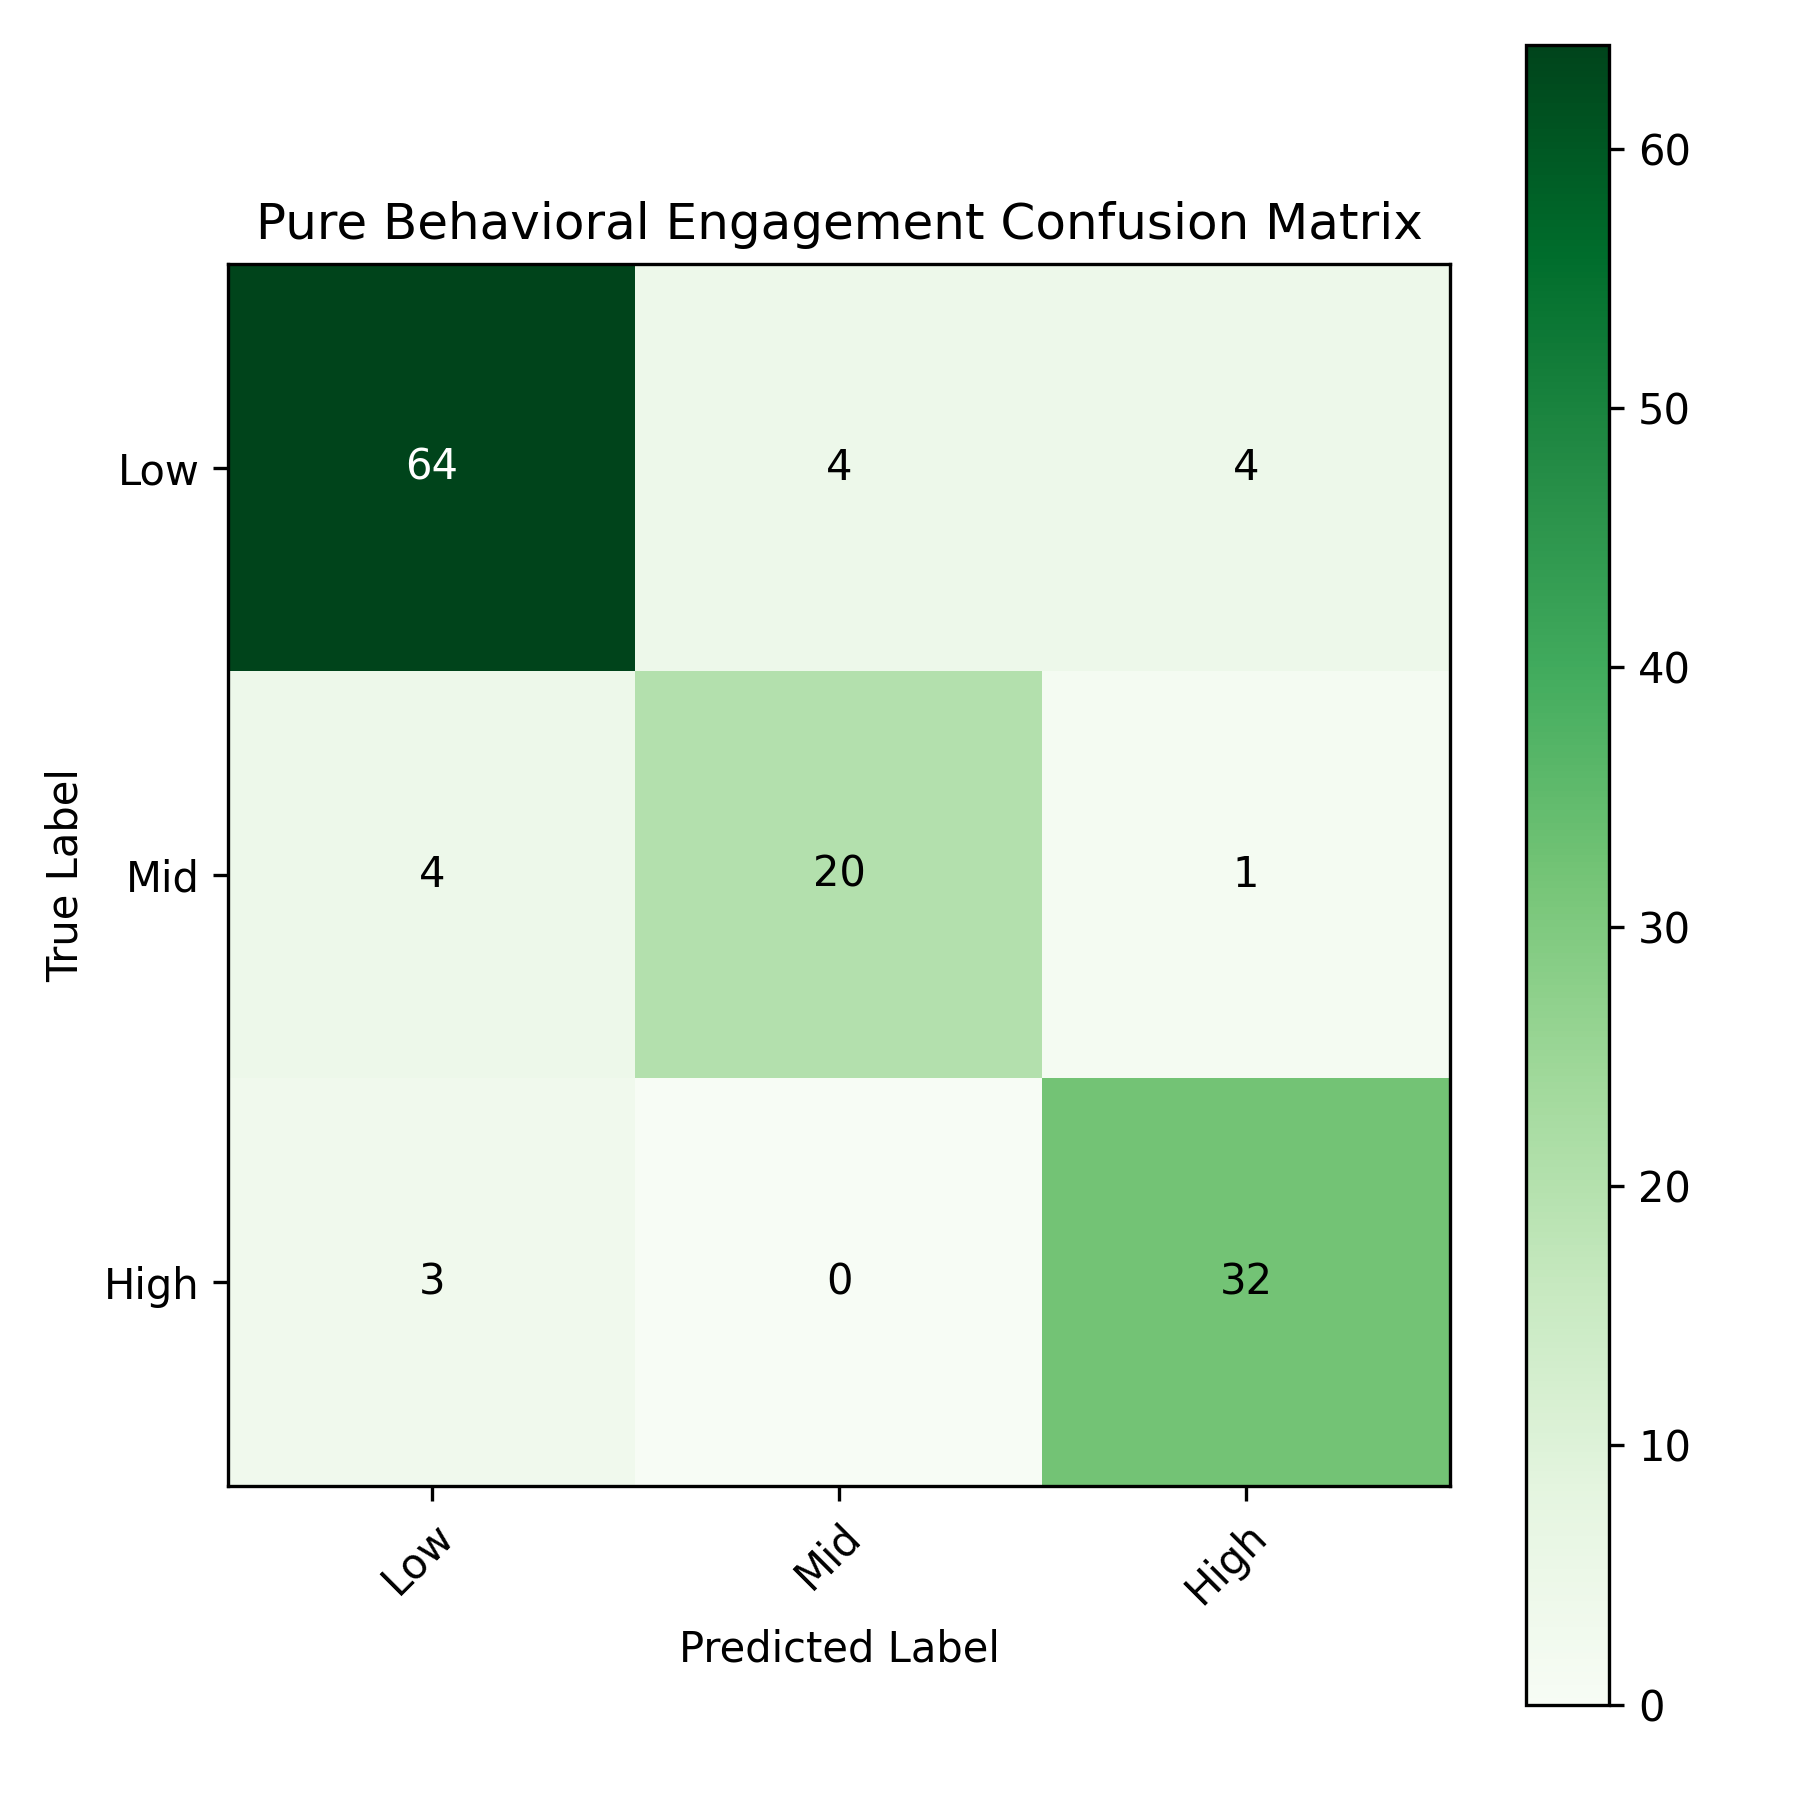
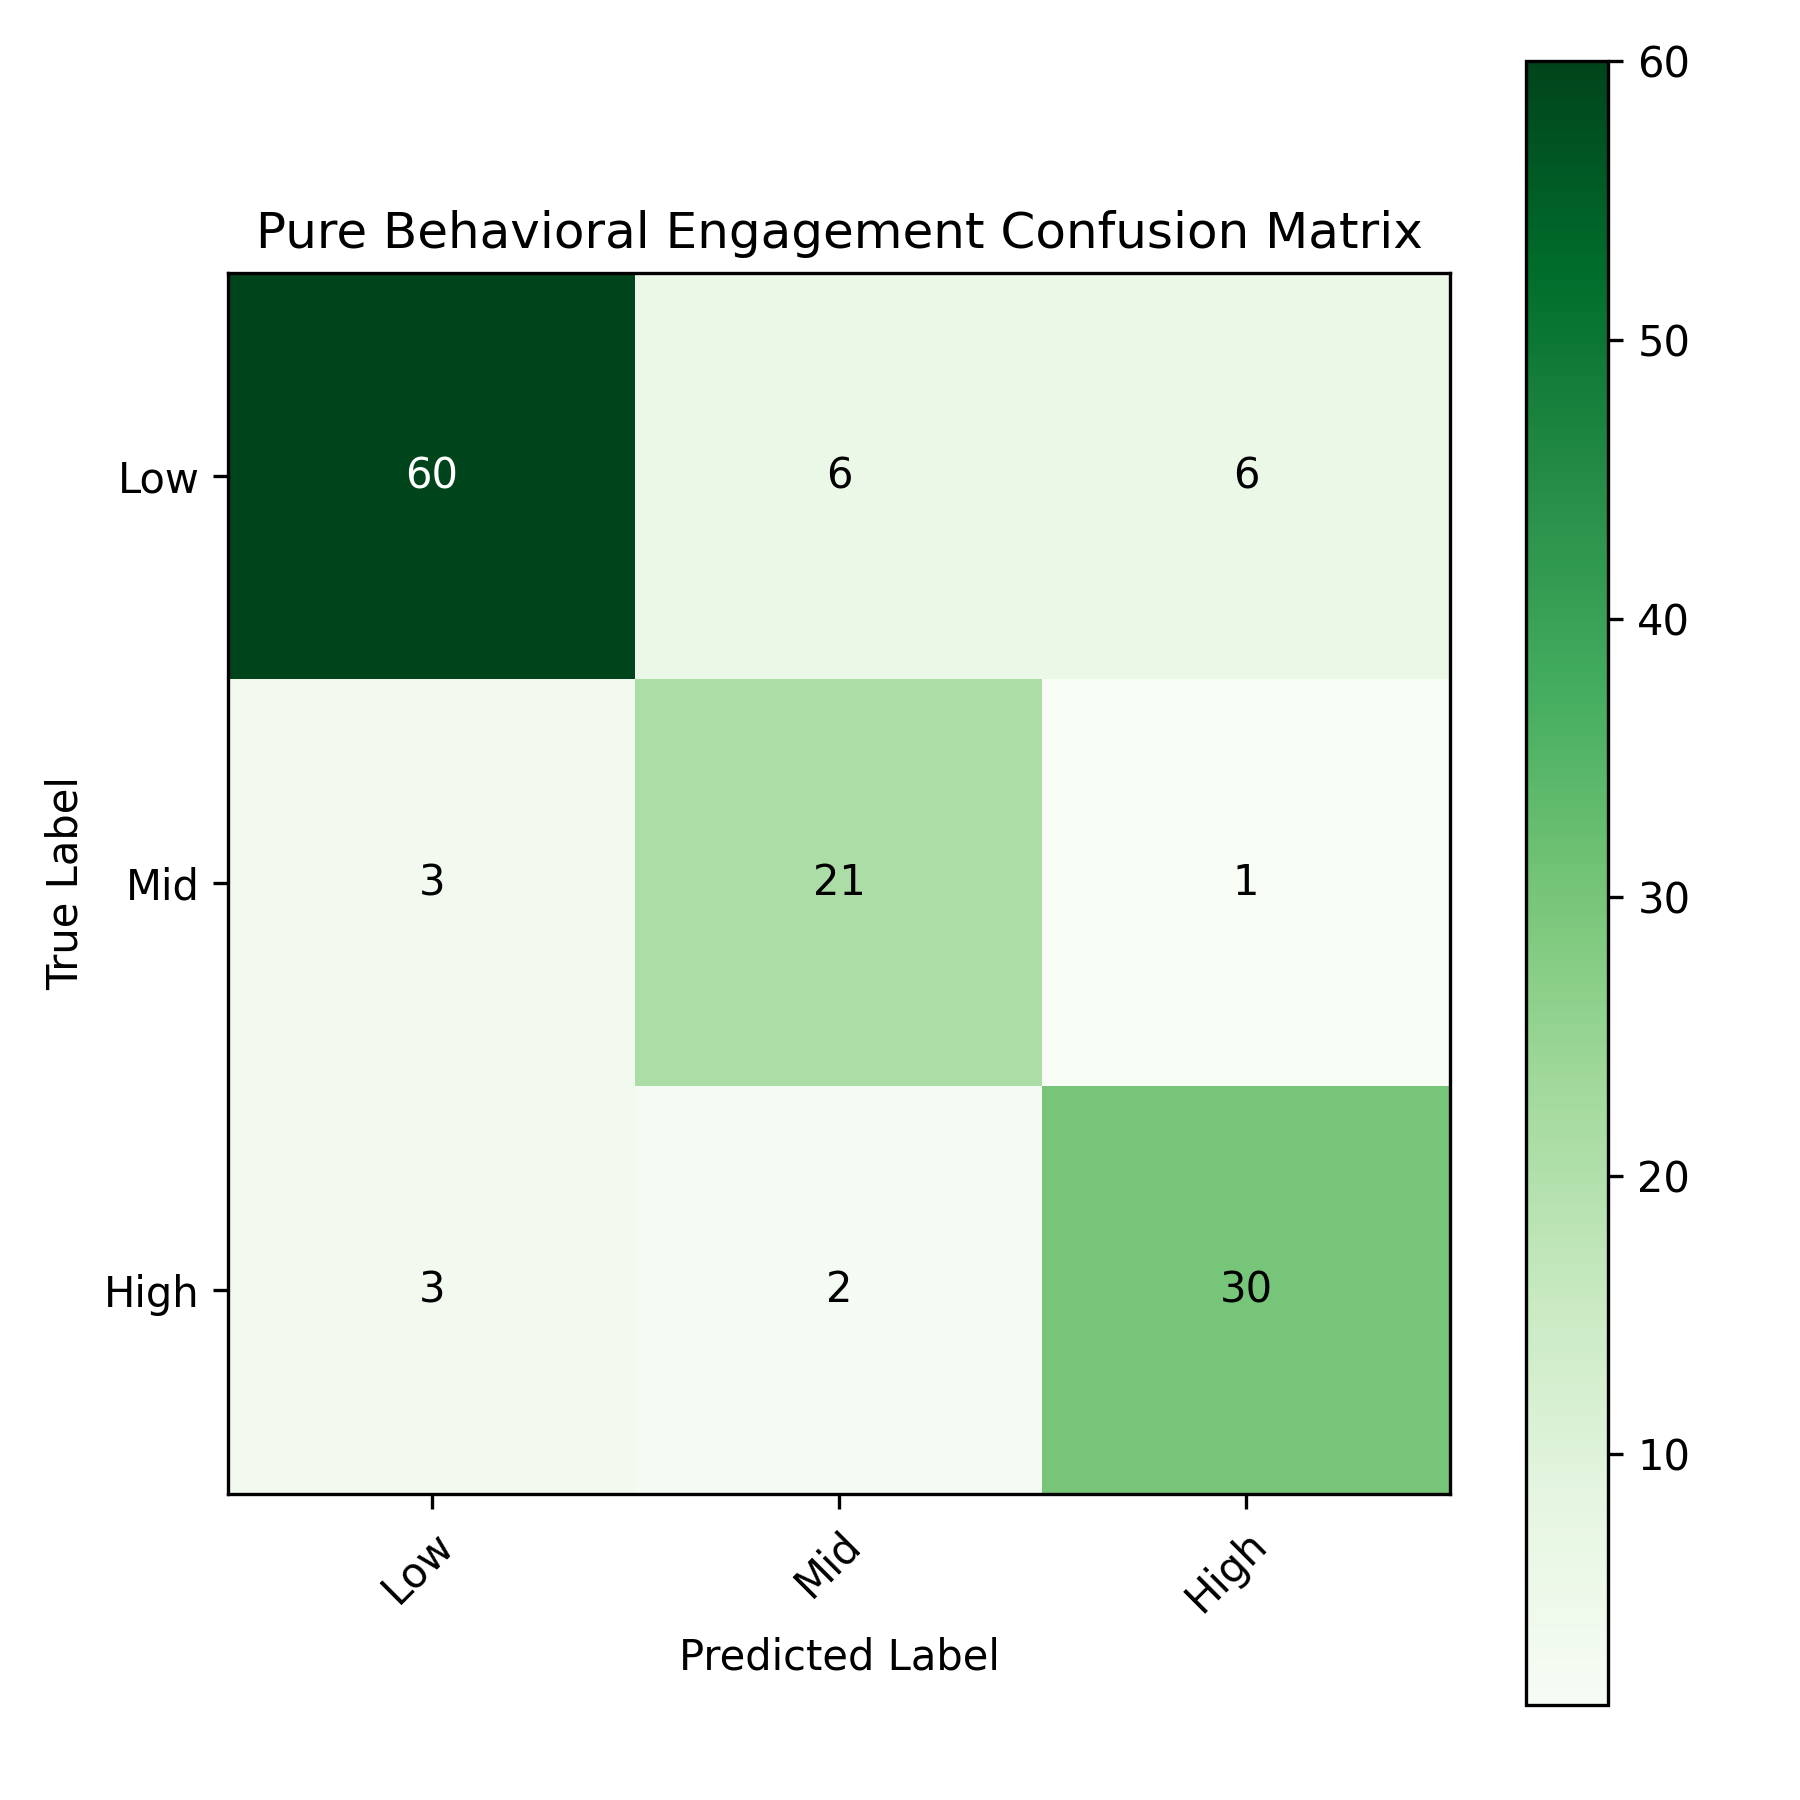
fix: verify legacy provenance and report reproducible metrics

diff --git a/extract_affect_features.py b/extract_affect_features.py
@@ -237,6 +237,17 @@ def manifest_matches_args(manifest: dict, args: argparse.Namespace) -> bool:
     )
 
 
+def reusable_affect_output(path: Path) -> bool:
+    """Return whether an existing affect array satisfies the full data contract."""
+    if not path.is_file():
+        return False
+    try:
+        matrix = np.load(path, allow_pickle=False)
+    except (OSError, ValueError):
+        return False
+    return matrix.shape == (8, 8) and np.isfinite(matrix).all()
+
+
 def main() -> None:
     parser = argparse.ArgumentParser(
         description="RetinaFace + ByteTrack + PyTorch FER affect extraction"
@@ -345,6 +356,44 @@ def main() -> None:
         # A failed full overwrite must not leave an old manifest claiming that
         # the now-partially-replaced directory is internally consistent.
         manifest_path.unlink(missing_ok=True)
+
+    if not args.overwrite:
+        reusable_count = 0
+        for split, category, source_path in tasks:
+            destination_path = (
+                args.output_dir / split / category / f"{source_path.stem}.npy"
+            )
+            details_path = (
+                args.track_details_dir / split / category / f"{source_path.stem}.json"
+            )
+            details_available = not args.save_track_details or details_path.is_file()
+            if reusable_affect_output(destination_path) and details_available:
+                reusable_count += 1
+        if reusable_count == len(tasks):
+            previous_summary = (existing_manifest or {}).get("summary", {})
+            summary = {
+                "input_videos": len(tasks),
+                "processed_videos": 0,
+                "skipped_existing_videos": len(tasks),
+                "failed_videos": 0,
+                "mean_frame_reliability": previous_summary.get(
+                    "mean_frame_reliability"
+                ),
+                "zero_reliability_fraction": previous_summary.get(
+                    "zero_reliability_fraction"
+                ),
+            }
+            print(json.dumps(summary, indent=2))
+            if args.max_videos is None:
+                print(f"Preserved existing affect provenance manifest: {manifest_path}")
+            else:
+                print(
+                    "Diagnostic subset run: preserved the full-dataset extraction "
+                    "manifest."
+                )
+            print(f"Reused verified track-aware affect features under {args.output_dir}")
+            return
+
     module = build_affect_module(args)
 
     processed = 0
@@ -360,8 +409,10 @@ def main() -> None:
         )
         details_missing = args.save_track_details and not details_path.exists()
         if destination_path.exists() and not args.overwrite and not details_missing:
-            skipped += 1
-            continue
+            if reusable_affect_output(destination_path):
+                skipped += 1
+                continue
+            print(f"Replacing incompatible existing affect feature: {destination_path}")
         try:
             matrix, frame_reliability, frame_details = extract_video(module, source_path)
             np.save(destination_path, matrix)
@@ -417,7 +468,10 @@ def main() -> None:
             "feature matrices were not silently fabricated."
         )
     if args.max_videos is None:
-        write_manifest(args, args.output_dir, summary)
+        if processed == 0 and skipped == len(tasks) and existing_manifest is not None:
+            print(f"Preserved existing affect provenance manifest: {manifest_path}")
+        else:
+            write_manifest(args, args.output_dir, summary)
     else:
         print("Diagnostic subset run: preserved the full-dataset extraction manifest.")
     print(f"Saved track-aware affect features under {args.output_dir}")

diff --git a/dataset.py b/dataset.py
@@ -2,6 +2,7 @@
 
 from __future__ import annotations
 
+from copy import deepcopy
 import json
 from pathlib import Path
 from typing import Sequence
@@ -9,6 +10,42 @@ from typing import Sequence
 import numpy as np
 import torch
 from torch.utils.data import Dataset
+
+from feature_schema import AFFECT_FEATURE_SCHEMA
+
+
+LEGACY_AFFECT_TRACKER_DEFAULTS = {
+    "new_track_threshold": 0.45,
+    "track_buffer": 8,
+}
+
+
+def normalize_feature_manifest_for_comparison(manifest: dict) -> dict:
+    """Fill only recorded legacy defaults before provenance comparison."""
+    normalized = deepcopy(manifest)
+    affect = normalized.get("affect_extraction")
+    if not isinstance(affect, dict):
+        return normalized
+    affect_schema = affect.get("feature_schema") or normalized.get("affect_schema")
+    tracker = affect.get("tracker")
+    if (
+        affect_schema == AFFECT_FEATURE_SCHEMA
+        and isinstance(tracker, dict)
+        and tracker.get("enabled") is True
+        and tracker.get("library") == "ultralytics-bytetrack"
+    ):
+        for key, value in LEGACY_AFFECT_TRACKER_DEFAULTS.items():
+            tracker.setdefault(key, value)
+    return normalized
+
+
+def feature_manifests_compatible(checkpoint_manifest: dict, data_manifest: dict) -> bool:
+    """Compare provenance while supporting the original track-aware manifest."""
+    if not isinstance(checkpoint_manifest, dict) or not isinstance(data_manifest, dict):
+        return False
+    return normalize_feature_manifest_for_comparison(
+        checkpoint_manifest
+    ) == normalize_feature_manifest_for_comparison(data_manifest)
 
 
 def load_feature_manifest(

diff --git a/evaluate_behavioral.py b/evaluate_behavioral.py
@@ -9,7 +9,11 @@ import matplotlib.pyplot as plt
 from sklearn.metrics import classification_report, confusion_matrix, f1_score
 from torch.utils.data import DataLoader
 from model_behavioral import PureBehavioralAttentionClassifier
-from dataset import EngagementDataset, load_feature_manifest
+from dataset import (
+    EngagementDataset,
+    feature_manifests_compatible,
+    load_feature_manifest,
+)
 from feature_schema import BEHAVIORAL_FEATURE_SCHEMA
 
 SCRIPT_DIR = os.path.dirname(os.path.abspath(__file__))
@@ -81,10 +85,16 @@ def evaluate(args):
         return
 
     checkpoint = torch.load(checkpoint_path, map_location=device, weights_only=False)
-    if checkpoint.get("feature_manifest") != feature_manifest:
+    checkpoint_manifest = checkpoint.get("feature_manifest")
+    if not feature_manifests_compatible(checkpoint_manifest, feature_manifest):
         raise ValueError(
             "Checkpoint feature provenance does not match the current behavioral "
             "matrices. Rebuild, retrain, and then evaluate."
+        )
+    if checkpoint_manifest != feature_manifest:
+        print(
+            "Accepted legacy affect provenance: omitted ByteTrack defaults were "
+            "verified as new_track_threshold=0.45 and track_buffer=8."
         )
     model.load_state_dict(checkpoint["model_state_dict"])
     model.eval()

diff --git a/evaluate.py b/evaluate.py
@@ -9,7 +9,11 @@ import matplotlib.pyplot as plt
 from sklearn.metrics import classification_report, confusion_matrix, f1_score
 from torch.utils.data import DataLoader
 from model import MultiBranchTemporalAttentionClassifier
-from dataset import EngagementDataset, load_feature_manifest
+from dataset import (
+    EngagementDataset,
+    feature_manifests_compatible,
+    load_feature_manifest,
+)
 from feature_schema import MULTI_BRANCH_FEATURE_SCHEMA
 
 SCRIPT_DIR = os.path.dirname(os.path.abspath(__file__))
@@ -90,10 +94,16 @@ def evaluate(args):
         return
 
     checkpoint = torch.load(checkpoint_path, map_location=device, weights_only=False)
-    if checkpoint.get("feature_manifest") != feature_manifest:
+    checkpoint_manifest = checkpoint.get("feature_manifest")
+    if not feature_manifests_compatible(checkpoint_manifest, feature_manifest):
         raise ValueError(
             "Checkpoint feature provenance does not match the current matrices. "
             "Rebuild, retrain, and then evaluate."
+        )
+    if checkpoint_manifest != feature_manifest:
+        print(
+            "Accepted legacy affect provenance: omitted ByteTrack defaults were "
+            "verified as new_track_threshold=0.45 and track_buffer=8."
         )
     model.load_state_dict(checkpoint["model_state_dict"])
     model.eval()

diff --git a/README.md b/README.md
@@ -57,20 +57,24 @@ This repository supports two execution modes:
 
 ---
 
-## 📊 Benchmark & Evaluation Results
+## 📊 Reproducible Evaluation Status
 
-Evaluated on the unseen test split (132 video clips):
+The checkpoint currently available locally for the pure-behavioral model was
+evaluated against all 132 files in `feature_matrices_behavioral/test`. The
+checkpoint is ignored by Git, so these numbers are not reproducible from a
+fresh clone until that checkpoint is supplied or the model is retrained.
 
-### 1. Classification Metrics Summary
+| Evaluation Setup | Test Accuracy | Macro-F1 | Status |
+| :--- | :---: | :---: | :--- |
+| **Pure Behavioral (Zero Scene)** | **84.09%** | **82.69%** | Reproduced on the current 132-sample test matrices |
+| **Majority Class Baseline** | 54.55% | 23.53% | Computed from the same test labels |
+| **Multi-Branch Balanced Fusion** | — | — | No matching 616-D checkpoint is currently available for verification |
 
-| Evaluation Setup | Modalities Used | Fused Dimensions | Test Accuracy | Macro-F1 Score |
-| :--- | :--- | :---: | :---: | :---: |
-| **Multi-Branch Balanced Fusion** | Scene (16) + Interaction (32) + Affect (32) | **80-dim** | **100.00%** | **100.00%** |
-| **Pure Behavioral (Zero Scene)** | Interaction (48) + Affect (48) | **96-dim** | **88.00%** | **86.68%** |
-| **Independent Random Forest Baseline** | Static Temporal Average (Pure Behavioral) | 40-dim | 82.58% | **79.32%** |
-| **Majority Class Baseline** | Always predicts Low | — | 54.54% | **23.53%** |
+The previously documented 100% multi-branch and 88% behavioral results were
+not reproduced by the checkpoint and matrices currently present, so they are
+not reported as verified results here.
 
-### 2. Detailed Breakdown: Pure Behavioral Model (No Scene Shortcut)
+### Pure Behavioral Model: Current Checkpoint
 
 ```text
 =================================================================
@@ -79,17 +83,25 @@ Running Pure Behavioral Pipeline Evaluation Phase...
 =================================================================
               precision    recall  f1-score   support
 
-         Low       0.90      0.89      0.90        72
-         Mid       0.83      0.80      0.82        25
-        High       0.86      0.91      0.89        35
+         Low       0.91      0.83      0.87        72
+         Mid       0.72      0.84      0.78        25
+        High       0.81      0.86      0.83        35
 
-    accuracy                           0.88       132
-   macro avg       0.87      0.87      0.87       132
-weighted avg       0.88      0.88      0.88       132
+    accuracy                           0.84       132
+   macro avg       0.81      0.84      0.83       132
+weighted avg       0.85      0.84      0.84       132
 
-Model Macro-F1 Score:     86.68%
+Model Macro-F1 Score:     82.69%
 Baseline (Always Low) F1:  23.53%
 =================================================================
+```
+
+Confusion matrix (rows are true classes; columns are predictions):
+
+```text
+[[60, 6, 6],
+ [ 3,21, 1],
+ [ 3, 2,30]]
 ```
 
 ---
